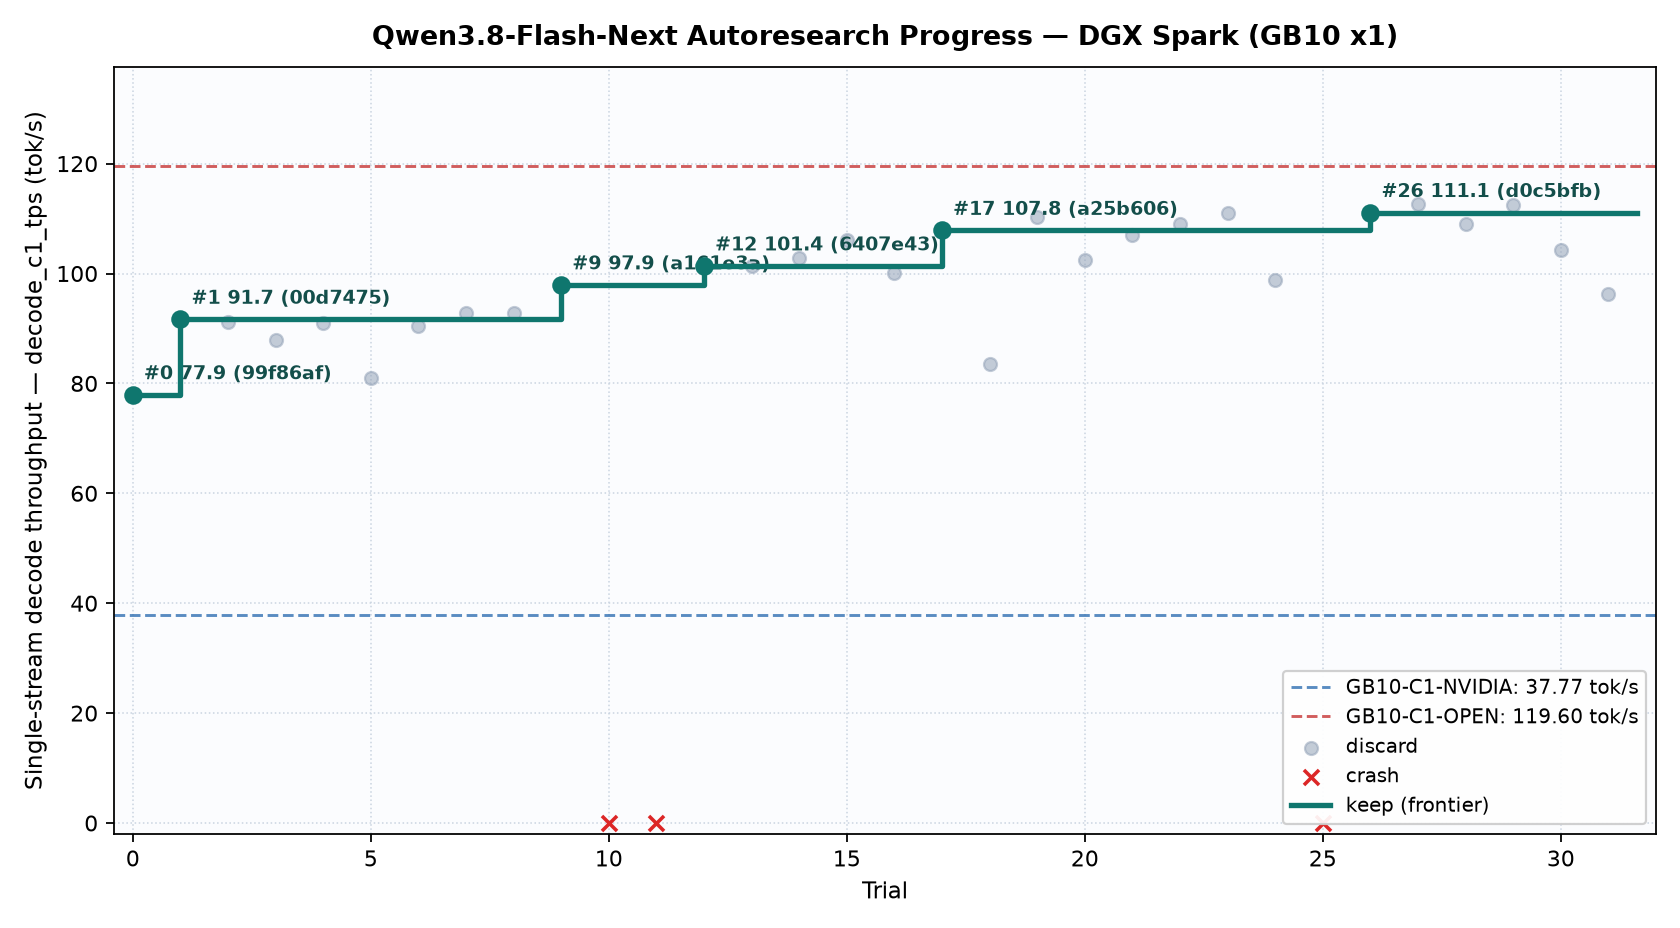
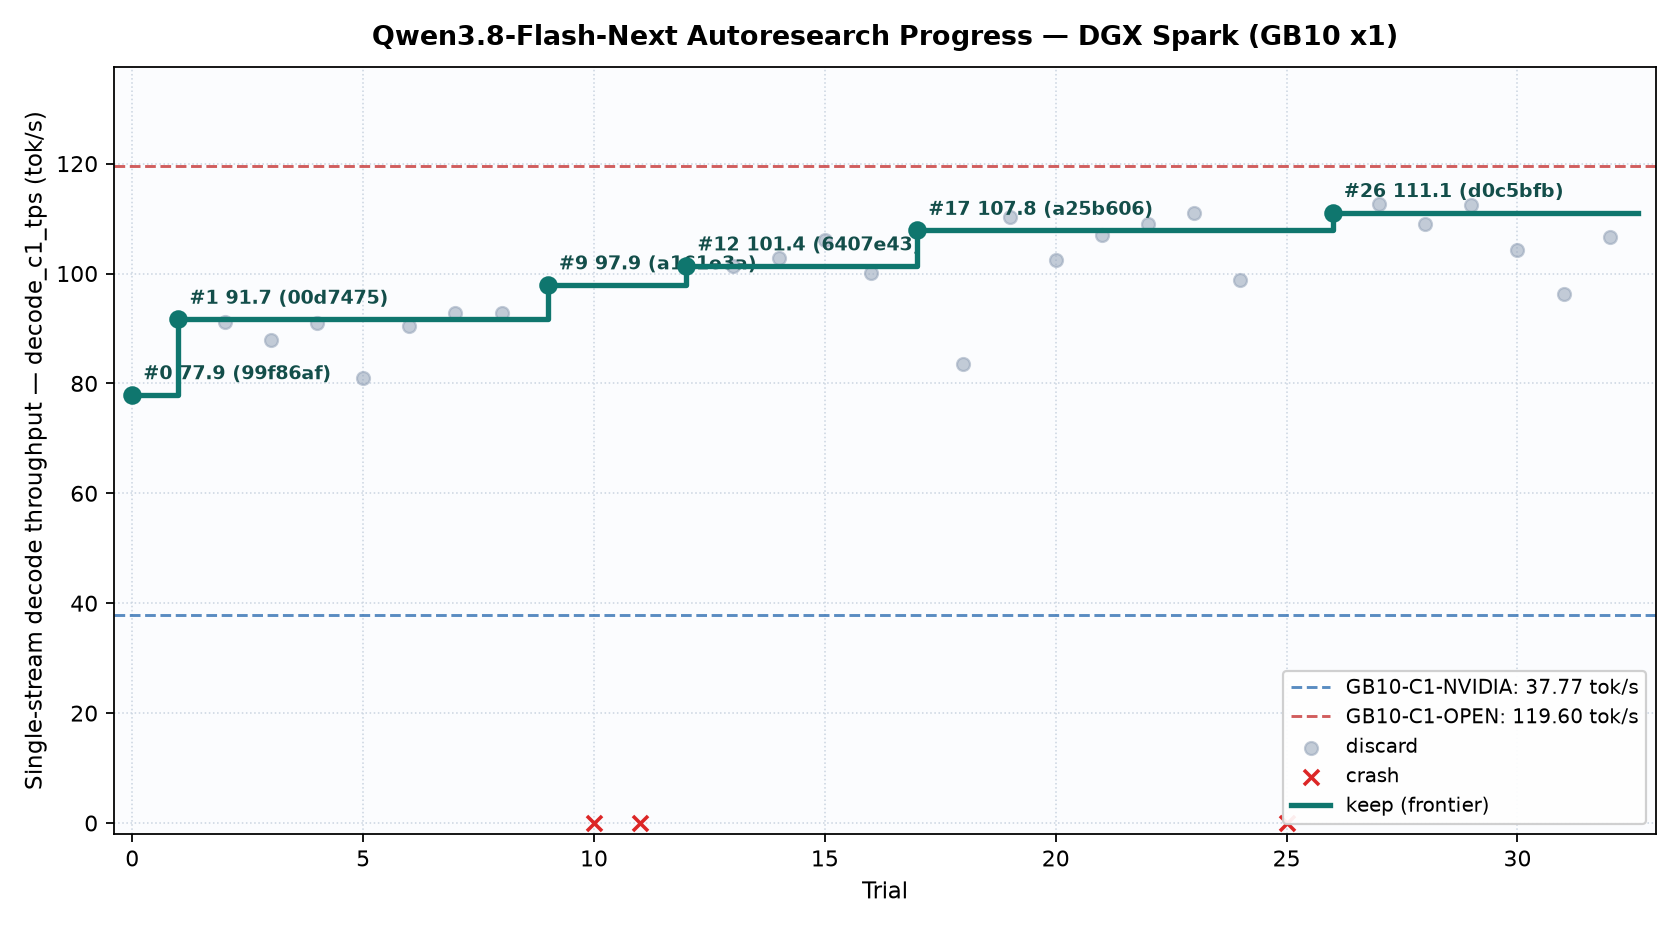
spark trial 32: discard

diff --git a/records/research-log.md b/records/research-log.md
@@ -43,3 +43,4 @@ Every trial appends a 1-line check of upstream inference engines (`vllm-project/
 | 2026-11-19 18:39 | 29 (new stack) | <https://github.com/ashhart/TensorFold/blob/6b9de695/zig/kernels/cuda/deepseek_v41/l2pace.cu>, <https://github.com/ashhart/TensorFold/commit/813ff4cc>, <https://github.com/vllm-project/vllm/commit/cc5dafc1>, <https://github.com/ggml-org/llama.cpp/commit/51a77c4f> | Six-engine check (`vllm` `cc5dafc1`, `sglang` `b1970bc4`, `TensorRT-LLM` `b07cf5ba`, `llama.cpp` `51a77c4f`, `TensorFold` `813ff4cc`/`l2pace.cu`, `hibana` `d474b74d`): `nsys` A/B profiling of Trial 28 (`108.92`, `hash_match=1`) cleanly isolated all 4 sub-changes: (1) splitting `nvfp4_experts` into serial `hi`+`lo` kernels cost `+212 ms` because `>50%` of layers have 1-2 `cnt>8` experts (`84 us` median on 5-10 SMs); (2) early `shared.fork` before `routerMany`/`topkMany` stole SMs on the critical path (`+138 ms`); (3) 1-warp `tf_route_topk` (`22.4->4.9 us` min), shared-expert skip in `plan_kernel` (`nvfp4_expert_half` `-12%`), and TMA L2 prefetch (`out_proj` `-156.4 ms` / `-24.1%`, `+44.6 ms` net even unpaced and firing on short MTP attn!) were all clear wins. | Adopted in trial 29 on Trial 27's `112.57` base: eliminate `REG:128 STACK:24` in single-kernel `nvfp4_expert_kernel<2,2,1>` and cut `-16..-24` regs in `Stage<M>`/`Half<M>` by dropping double-buffered L1-hot `xa/xb` (+ `h`-outer loop + `uint2 s[M]` in `Half<M>`), keep 1-warp zero-barrier `tf_route_topk` + `O(1)` atomic descending-`cnt` `plan_kernel` with shared-expert skip + original post-topk `shared.fork`, and upgrade TMA L2 prefetch to `l2pace`-style `165 GB/s` paced `10 MiB` on main BF12 `out_proj`/`o_proj` only (skipping MTP; `hash_match=1`). |
 | 2026-11-19 18:55 | 30 (new stack) | <https://github.com/sgl-project/sglang/commit/01497afb>, <https://github.com/ashhart/TensorFold/blob/6b9de695/zig/src/cuda/nvfp4.zig>, <https://github.com/vllm-project/vllm/commit/438e9e8a>, <https://github.com/ggml-org/llama.cpp/commit/41d8297f> | Six-engine check (`vllm` `438e9e8a`, `sglang` `01497afb` FP4 indexer for Kimi-K3.1, `TensorRT-LLM` `b1d5fe23`, `llama.cpp` `41d8297f`, `TensorFold` `813ff4cc`, `hibana` `d474b74d`): Trial 29 (`112.53`, `0.158s` TTFT, `hash_match=1`) showed that removing pipelined `xa/xb` from `nvfp4_experts` `Stage<M>` hurt `nvfp4_experts` enough to offset the proven `+1.5 tok/s` gain from 1-warp `tf_route_topk` + skip-shared `plan_kernel` + paced BF12-only TMA L2 prefetch; direct checkpoint SNR audit of all 20 MTP dense weights revealed 19 of 20 (`q_proj`, `o_proj`, `k/v/indexer`, `fc_e`, `fc_h`, `attn/mlp_hc.{down,up}`, `mixer.up`, `shared_expert.*`) have clean `20.49-25.99 dB` NVFP4 SNR (`90.0 MB -> 49.1 MB`, saving `40.9 MB/step` = `614 MB/round` = `~2.8 ms/round` with 100% bit-exact target output; Trial 24 only regressed because `CONFIDENCE` was lowered to `-0.38`). | Adopted in trial 30 on Trial 27's `112.57` base: restore pipelined `nvfp4_experts.cu`, keep Trial 29's proven 1-warp `tf_route_topk` + `O(1)` atomic descending-`cnt` `plan_kernel` with shared-expert skip + paced `10 MiB @ 165 GB/s` BF12-only TMA L2 prefetch, quantize all 19 clean MTP dense projections (`20.5-26.0 dB` SNR) to SM121 NVFP4 (`TF_FLASHNEXT_MTP_NVFP4=all`, keeping `mixer.down` MXFP8 and `CONFIDENCE=-0.28`), and upgrade `fn_w2_rescore_best` to 2-warps/row `K=16` (`hash_match=1`). |
 | 2026-11-19 19:19 | 31 (new stack) | <https://github.com/ashhart/TensorFold/blob/6b9de695/zig/kernels/cuda/flashnext_hc.cu>, <https://github.com/ashhart/TensorFold/blob/6b9de695/zig/kernels/cuda/nvfp4_experts.cu>, <https://github.com/sgl-project/sglang/commit/01497afb>, <https://github.com/vllm-project/vllm/commit/c5db9bd3> | Six-engine check (`vllm` `c5db9bd3`/`a38ff116`, `sglang` `01497afb`/`6c722acb`, `TensorRT-LLM` `b6709db3`/`25f7172b`, `llama.cpp` `41d8297f`/`51a77c4f`, `TensorFold` `abb3665b`/`4b66b0c2`, `hibana` `d474b74d`): Trial 30 (`104.27` C1, record `167.86` C4, `hash_match=1`) + A/B runtime sweep isolated two exact regressions: (1) shrinking `fn_w2_rescore_best` `K=32->16` + quantizing MTP `q_proj`/`fc_e`/`hc` to NVFP4 inflated rounds (`41->48` on `code-c1`, `54->64` on LRU prompt); (2) paced `L2PF_MB=10 @ 165 GB/s` was `+2.3%` slower per round than `L2PF_MB=0` (`79.0` vs `77.15 ms/rd`); meanwhile `fn_hc_reduce_act` (`14,152` calls = `83.6 ms`) allocates `float part[32]` (`REG:58`) + `4KB` SMEM + serial `XS` loop despite `SK==1` and dead `xs_act` on all native calls, `fn_hc_dense_mix8` (`59.2 ms`) computes dead `XSM` on all 96 layer HC calls (`has_inj==1`), and `nvfp4_expert_kernel<2,2,1>` spills `STACK:24` at `REG:128` because `pr0/pr1/e/cb` stay live across `k_loop`. | Adopted in trial 31 on Trial 27+29's proven zero-risk base (1-warp `tf_route_topk` + `O(1)` atomic 4-bucket descending-`cnt` `plan_kernel` with shared-expert skip): restore exact `K=32` in `fn_w2_rescore_best`, disable `L2PF` (`L2PF_MB=0`), stash `pr0/pr1/e/cb` into `__shared__ int spr[WARPS][18]` across `k_loop` in `nvfp4_experts.cu` to eliminate `STACK:24` spill while preserving full `D=2` `Stage<M>` pipelining, add zero-`part[32]` zero-SMEM zero-barrier `fn_hc_reduce_act_s1` + skip dead `XSM` in `fn_hc_dense_mix8` when `has_inj==1` (100% bit-exact), and restrict MTP NVFP4 (`TF_FLASHNEXT_MTP_NVFP4=safe`) to only the 5 highest-SNR non-attention-score weights (`fc_hidden` 25.99 dB, `o_proj` 20.65 dB, `shared_expert.*` 20.66-20.79 dB, `-12.75 MB/step`; `hash_match=1`). |
+| 2026-11-19 19:51 | 32 (new stack) | <https://github.com/ashhart/TensorFold/blob/6b9de695/zig/kernels/cuda/route_rows.cu>, <https://github.com/ashhart/TensorFold/blob/6b9de695/zig/kernels/cuda/common/router_mma.cuh>, <https://github.com/vllm-project/vllm/commit/392ed873>, <https://github.com/ggml-org/llama.cpp/commit/5812201a> | Six-engine check (`vllm` `392ed873`, `sglang` `9aa3b9e3`/`33315670`, `TensorRT-LLM` `42c12879`, `llama.cpp` `5812201a`, `TensorFold` `174010ec`/`94bf2e18`, `hibana` `d474b74d`): Trial 31 (`c16=272.32` all-time record, `nvfp4_expert_kernel<2,2,1>` `REG:124 STACK:0`, `<1,0,1>` `REG:77`, `fn_hc_reduce_act_s1` `REG:17` `3.5x` faster `83.6->28.6 ms`) + A/B & `CONFIDENCE` sweep across 3 coding prompts (`T31_mtp0`) revealed two huge wins: (1) `MTP_NVFP4=safe` alone caused Trial 31's `+8`-round regression (`41->49`), whereas pure MXFP8 (`MTP_NVFP4=0`) matched Trial 27's exact rounds/drafts while running faster, AND cleanly decoupling `CONFIDENCE` from `MTP_NVFP4` proved `CONFIDENCE=-0.45` gains `+10.6%` to `+15.8%` across all 3 coding prompts by cutting rejected drafts that each activate ~8-10 extra unique routed experts (`~4.5 ms/draft` wasted 512-expert NVFP4 verify DRAM); (2) `nsys` of `T31_mtp0` spotted 4 more bit-exact wins: `tf_route_logits_few` (`137.2 ms`, `17` CTAs on 48 SMs, `76 KB` SMEM), `fn_shift_window` (`34.2 ms`, `STACK:32` spill), unfused `hc` at `n=1..7` (`64.5 ms`), and dead `gxs`/`gxs_attn` writes + missing PDL in `fn_gdn_norm`/`fn_attn_gate`. | Adopted in trial 32 on Trial 31's zero-spill base: restore exact MXFP8 MTP (`TF_FLASHNEXT_MTP_NVFP4=0`), set `TF_FLASHNEXT_CONFIDENCE=-0.45` (MoE-optimal stopping), switch `tf_route_logits_few` to bit-exact 1-warp `logits<1,3,128>` (`65` CTAs across 48 SMs, `19 KB` SMEM, epilogue PDL launch), eliminate `fn_shift_window` `STACK:32` via scalar `taps<=3` fast path, enable `hc.fuses` from `n>=1`, and skip dead `gxs`/`gxs_attn` in `fn_gdn_norm` (+PDL) & `fn_attn_gate` (`hash_match=1`). |
